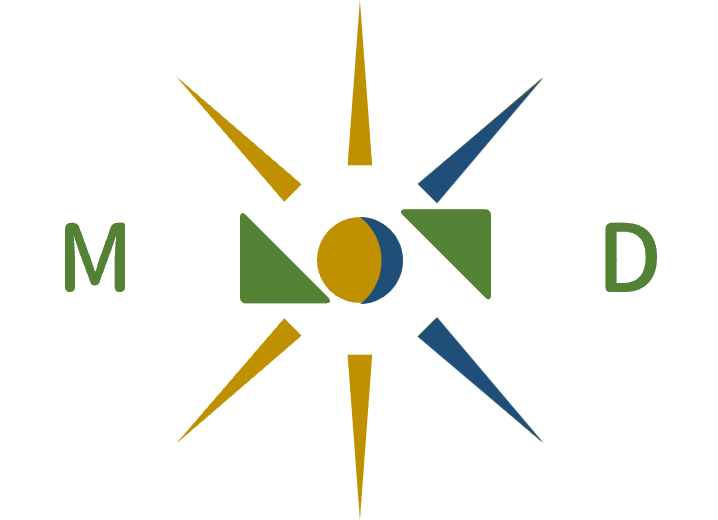
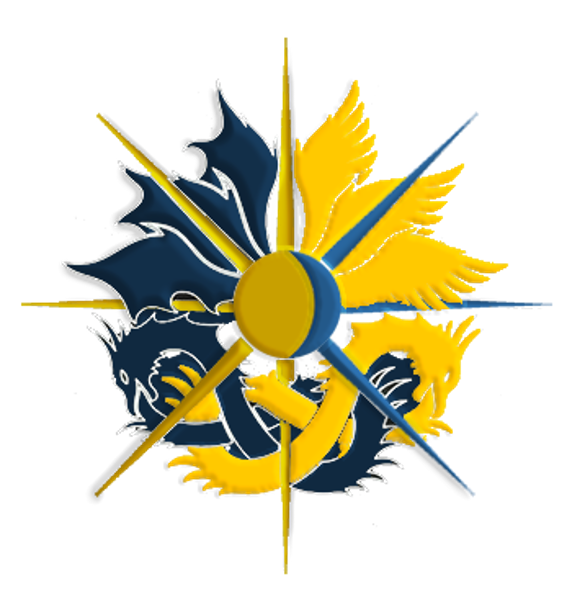
1.2.1011.b

diff --git a/index.html b/index.html
@@ -848,12 +848,17 @@
             </div>
             <div>
                 <h3>2025/10/11 10:00   1.2.1011.a</h3>
-                <h5>地理位置</h5>
+                <h5>基本資訊</h5>
                 <p>增加實際位置</p>
                 <h5>外交名單 / 加入組織</h5>
                 <p>增加邦交國大郲聯合帝國(<strong>🔶大使級</strong>)</p>
                 <h5>公告</h5>
                 <p>增加新公告書</p>
+            </div>
+            <div>
+                <h3>2025/10/11 10:10   1.2.1011.b</h3>
+                <h5>基本資訊</h5>
+                <p>更改司徽</p>
             </div>
         </section>
     </main>
